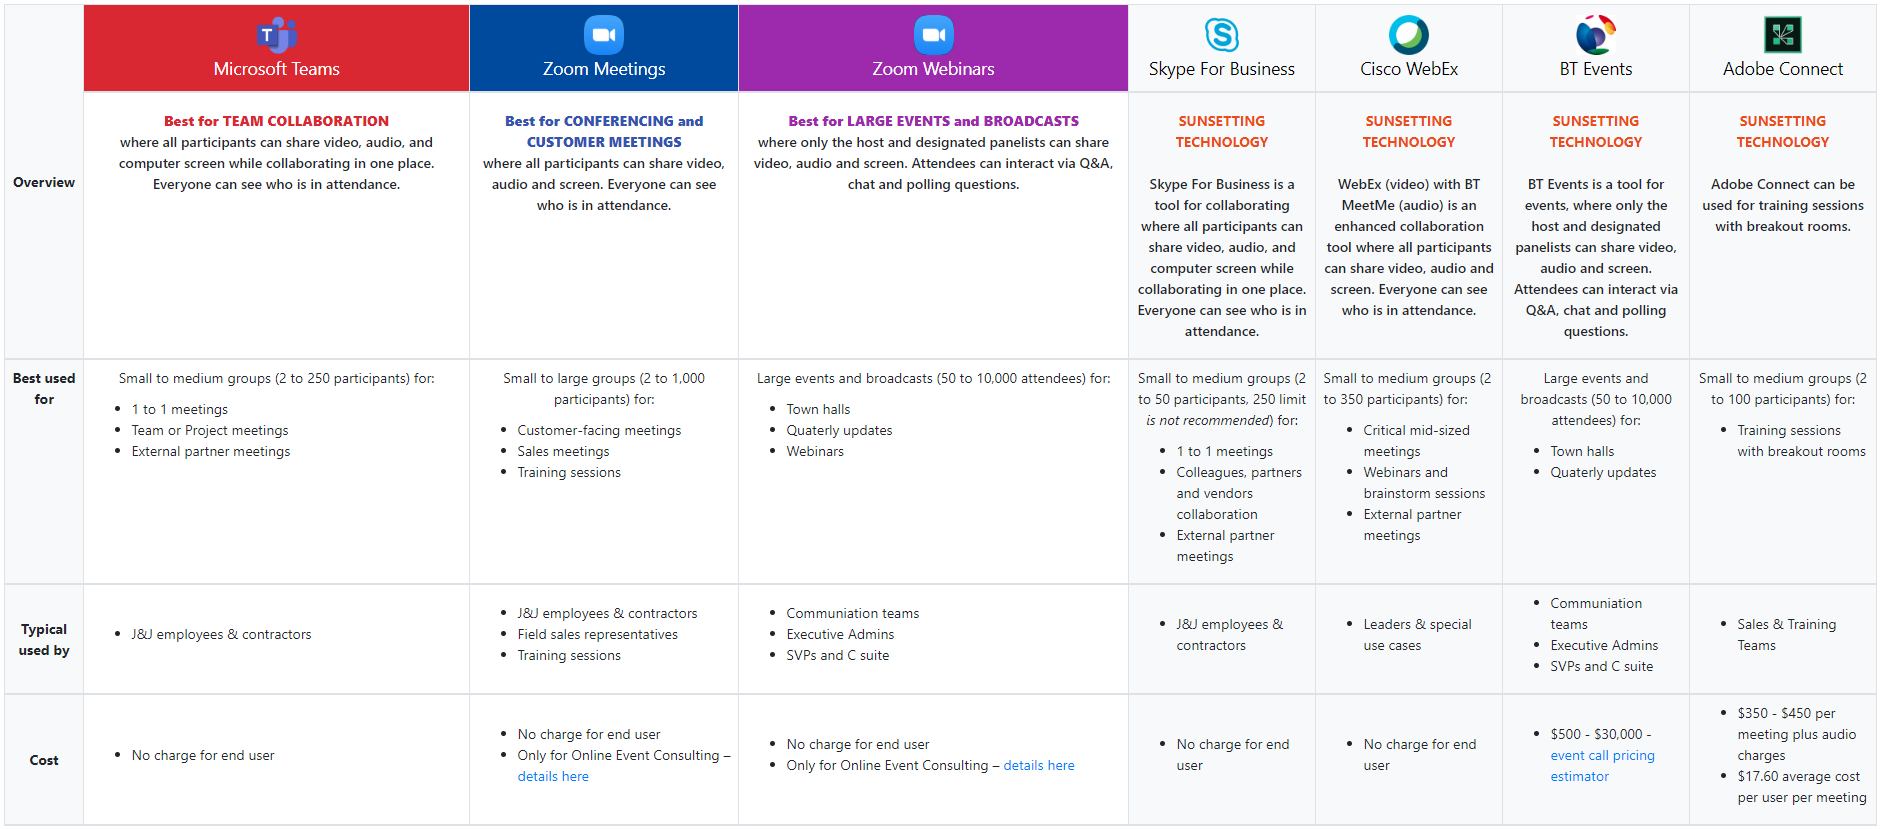
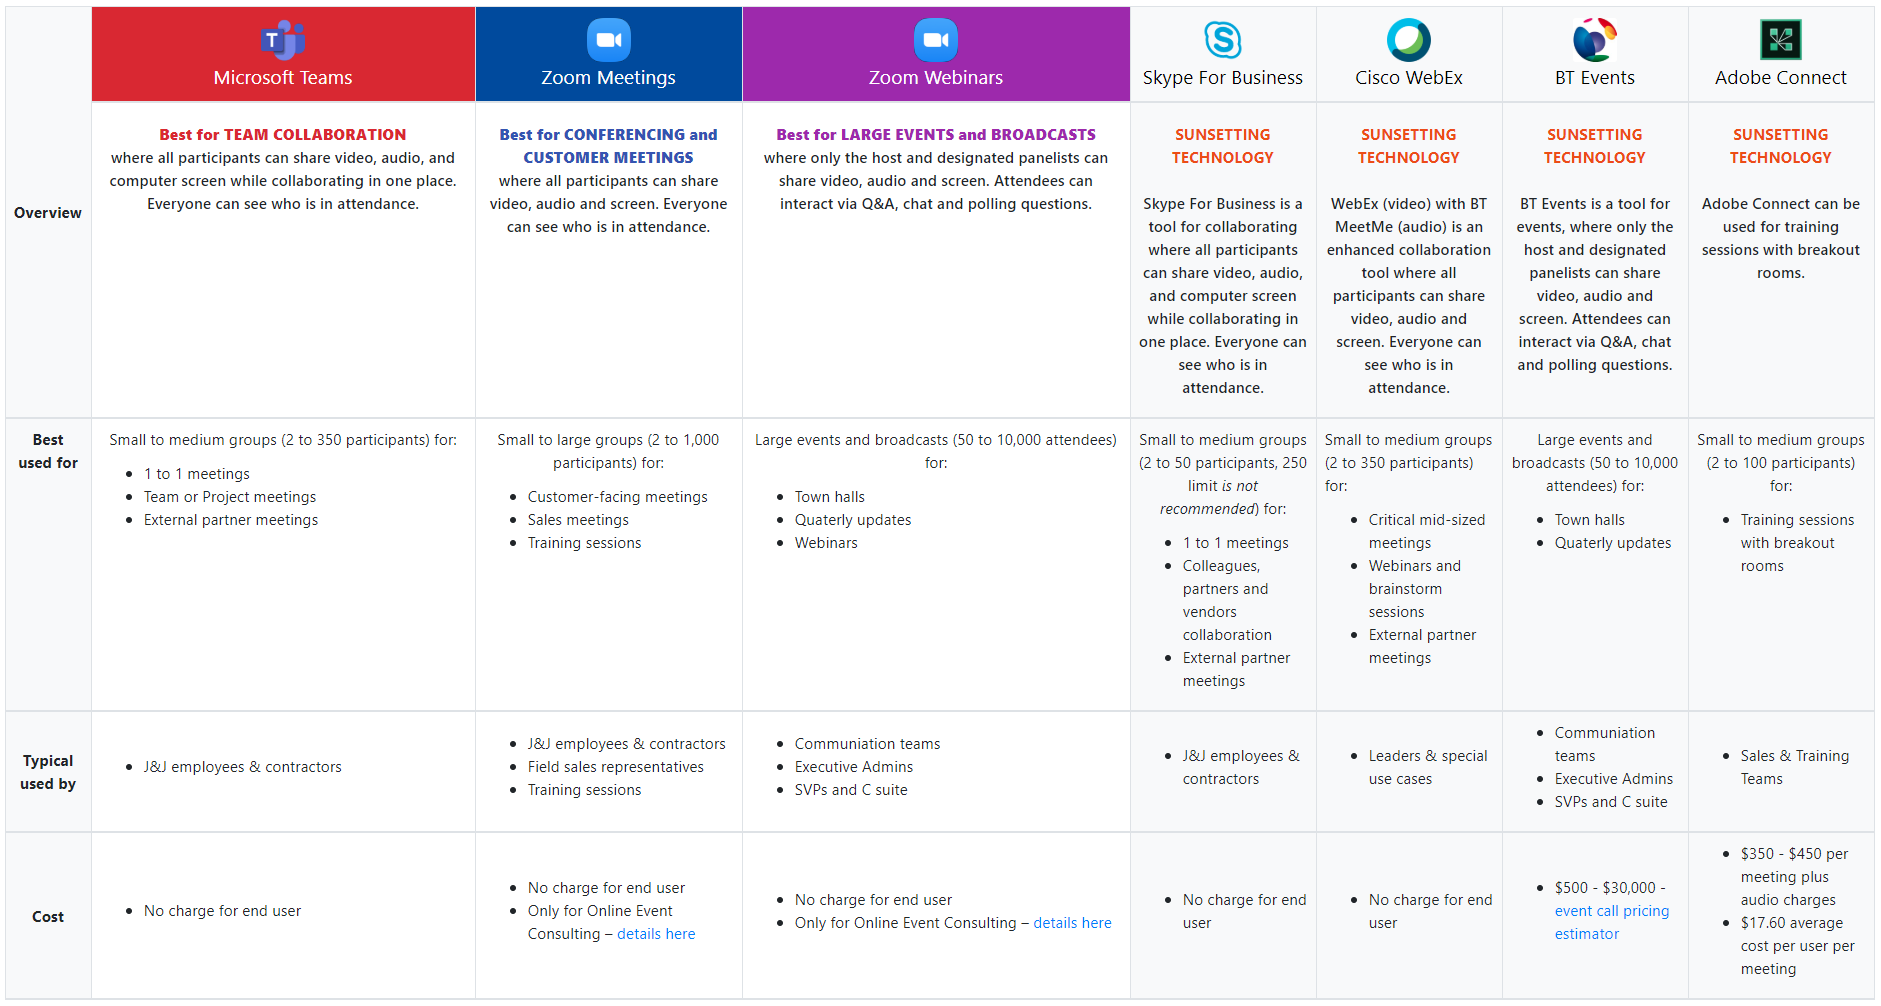
asdasdasd

diff --git a/Scenarios/VirtualMeetings/toolkit_vm_v50.html b/Scenarios/VirtualMeetings/toolkit_vm_v50.html
@@ -280,7 +280,7 @@
                     <tr class="text-left">
                         <th scope="row" class="text-center align-top bg-light">Best used for</th>
                         <td class="align-center">
-                            <p class="text-center">Small to medium groups (2 to 250 participants) for:</p>
+                            <p class="text-center">Small to medium groups (2 to 350 participants) for:</p>
                             <ul>
                                 <li>1 to 1 meetings</li>
                                 <li>Team or Project meetings</li>
@@ -459,24 +459,24 @@
                                     </a>
                                 </th>
 
-                                <th class="align-middle sfb caption black" width="10%">
+                                <th class="align-middle sfb caption black bg-light" width="10%">
                                     <a target="_blank" href="https://jnj.sharepoint.com/teams/ITforme/Pages/quick-ref-guide-skype.aspx">
                                         <img src="https://raw.githubusercontent.com/MyYupNope/MyYupNope.github.io/master/Logos/SkypeForBusiness.png" alt="logos" class=" rounded "><br>Skype For Business
                                     </a>
                                 </th>
 
-                                <th class="align-middle webex caption black" width="10%">
+                                <th class="align-middle webex caption black bg-light" width="10%">
                                     <a href="https://jnj.sharepoint.com/teams/ITforme/Pages/quick-ref-guide-webex.aspx" target="_blank">
                                         <img src="https://raw.githubusercontent.com/MyYupNope/MyYupNope.github.io/master/Logos/Webex.png" alt="logos" class=" rounded "><br>Cisco WebEx
                                     </a>
                                 </th>
 
-                                <th class="align-middle btevents caption black" width="10%">
+                                <th class="align-middle btevents caption black bg-light" width="10%">
                                     <a href="https://jnj.sharepoint.com/teams/ITforme/Pages/quick-ref-guide-bt.aspx" target="_blank">
                                         <img src="https://raw.githubusercontent.com/MyYupNope/MyYupNope.github.io/master/Logos/BTEvents.jpg" alt="logos" class=" rounded "><br>BT Events
                                     </a>
                                 </th>
-                                <th class="align-middle btevents caption black" width="10%">
+                                <th class="align-middle btevents caption black bg-light" width="10%">
                                     <a href="https://jnj.sharepoint.com/teams/ITforme/Pages/quick-ref-guide-custom.aspx" target="_blank">
                                         <img src="https://raw.githubusercontent.com/MyYupNope/MyYupNope.github.io/master/Logos/AdobeConnect.png" alt="logos" class=" rounded "><br>Adobe Connect
                                     </a>

diff --git a/Scenarios/VirtualMeetings/toolkit_vm_v40.html b/Scenarios/VirtualMeetings/toolkit_vm_v40.html
@@ -277,7 +277,7 @@
                     <tr class="text-left">
                         <th scope="row" class="text-center align-top bg-light">Best used for</th>
                         <td class="align-center">
-                            <p class="text-center">Small to medium groups (2 to 250 participants) for:</p>
+                            <p class="text-center">Small to medium groups (2 to 350 participants) for:</p>
                             <ul>
                                 <li>1 to 1 meetings</li>
                                 <li>Team or Project meetings</li>
